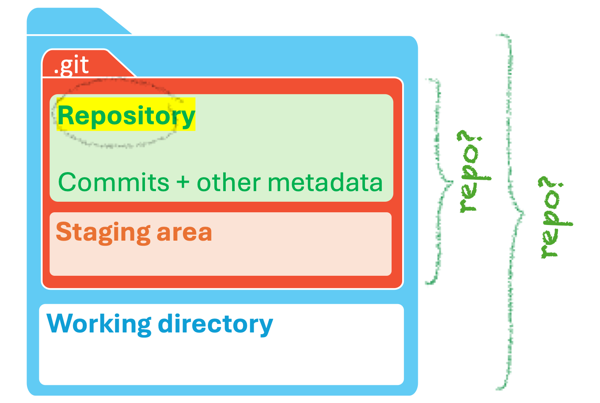
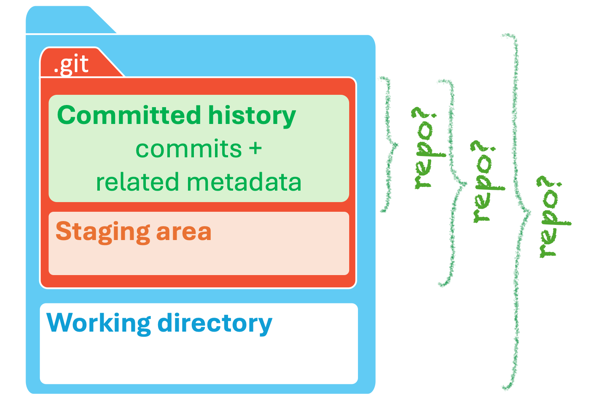
Tweak three-zones explanation

Changed region(s): [[0.03, 0.0, 0.96, 0.9851], [0.12, 0.5373, 0.36, 0.597]]

diff --git a/lessons/commit/text.md b/lessons/commit/text.md
@@ -46,13 +46,13 @@ This is a good time to recap the **three internal zones of a Git repo:**
 1. <span class="badge bg-info text-light">Working directory</span> The folder on your computer that contains the repo files. This is your workspace for editing files.<br>
    Another name for this zone is {{ show_git_term('working tree') }}.
 1. <span class="badge bg-warning text-dark">Staging area</span> (aka the <span class="badge bg-warning text-dark">index</span>) The space that contains a copy of the exact versions of all tracked files (modified and unmodified) that will be written into the next commit. This resides inside the `.git` folder.
-1. <span class="badge bg-success text-light">Repository</span> Stores the commits and other metadata related to the revision history of the project. This also resides inside the `.git` folder.
+1. <span class="badge bg-success text-light">Committed history</span> Stores the commits and other metadata related to the revision history of the project. This also resides inside the `.git` folder.
 
 <box type="info" seamless>
 
 **Which area is the 'repository', exactly?**{.text-info}
-{% call show_two_column_row("images/repoArea.png") %}
-As you saw above, the 'three-zones' mental model of a Git-controlled folder uses the term 'repository' to denote a specific area inside the `.git` folder. However, it is common to loosely refer to the `.git` folder, and sometimes even the entire project folder, as the 'repository' or the 'repo'.
+{% call show_two_column_row("images/repoArea.png", border=0) %}
+The concept 'repository' maps to the disk area of the `.git` folder. However, the term 'repository' is sometimes used to refer to the 'committed history' area of `.git` folder, and sometimes to the entire project folder, depending on the context of usage.
 {% endcall %}
 </box>
 
@@ -63,7 +63,7 @@ As you saw above, the 'three-zones' mental model of a Git-controlled folder uses
 sequenceDiagram
     participant WD as 📁 Working Directory
     participant SA as 📋 Staging Area
-    participant CH@{ "type": "database" } as Commit History
+    participant CH@{ "type": "database" } as Committed History
 
     rect rgb(235, 245, 255)
     Note over WD,SA: Staging a file
